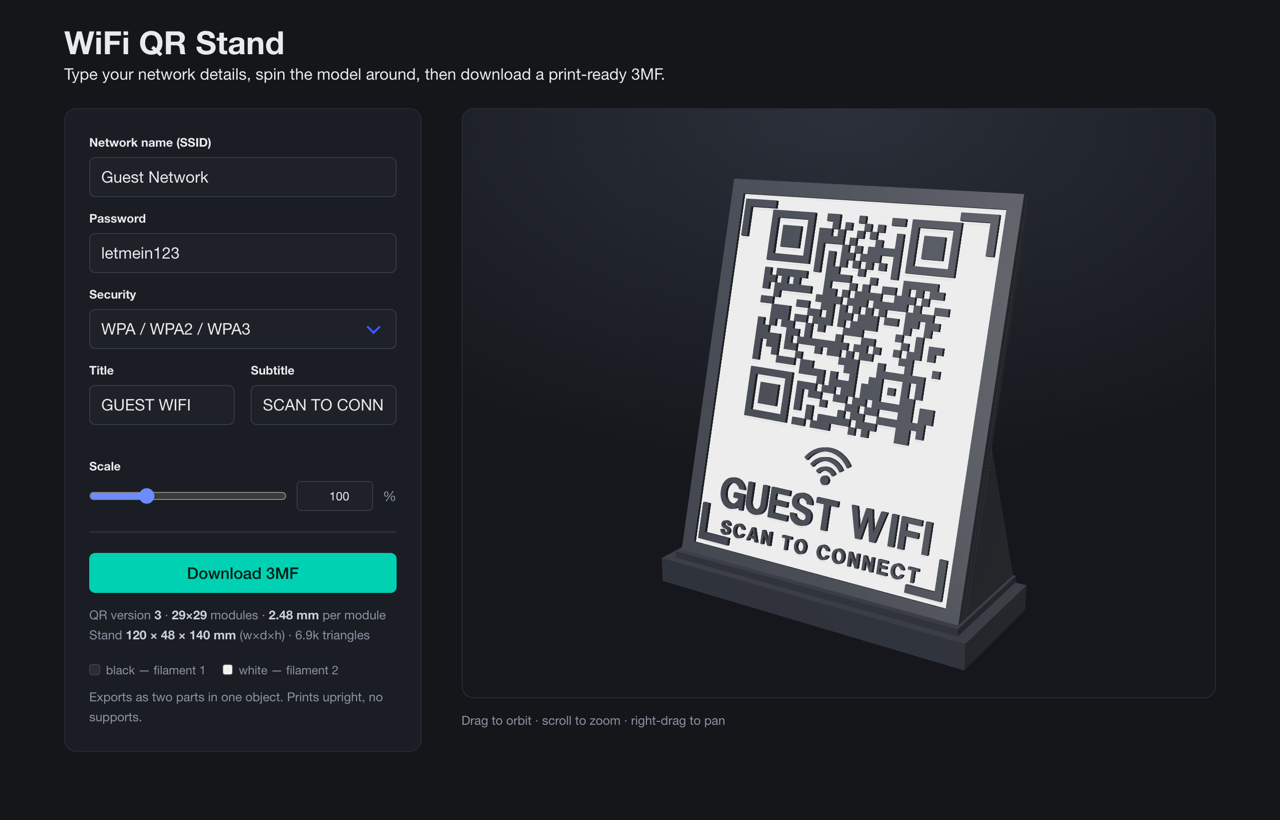
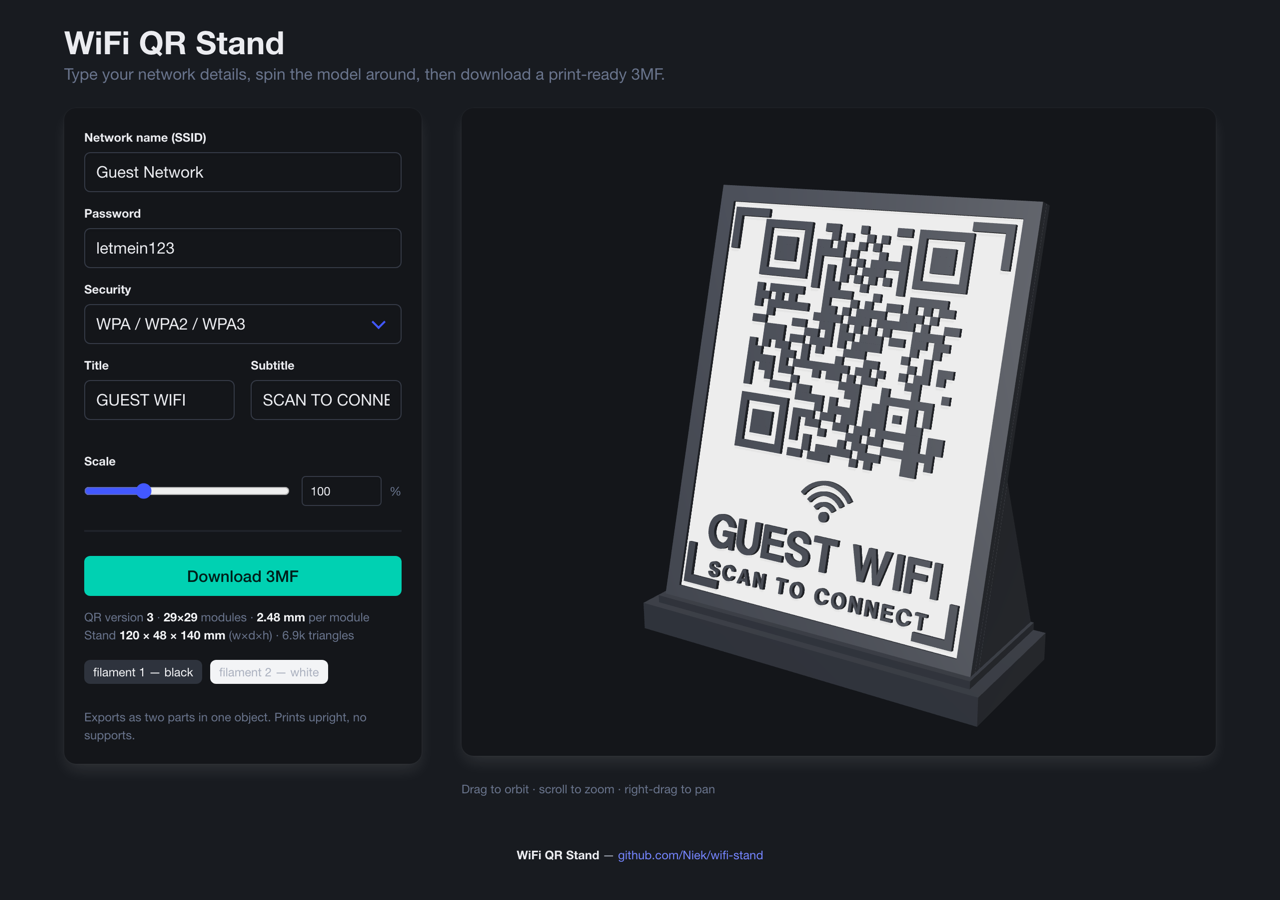
Add footer, lean on Bulma instead of custom CSS
Switch the page to Bulma's own dark theme with data-theme="dark", which
replaces every hand-rolled colour override: body text, headings, labels,
inputs, focus rings and placeholders all come from the framework now.

The remaining bespoke pieces map onto stock components and helpers --
.box for the two panels, .is-overlay/.is-flex for the loading overlay,
.tags with .is-dark/.is-light for the filament legend (the light and
dark palette colours are not flipped by the dark theme, so they read as
black and white), .is-size-7/.has-text-grey for captions, and
.is-flex-grow-1/.mr-* for the scale row.

That leaves seven declarations: the page background, the viewer's height
and grab cursor, the canvas display mode, and the range/number input
sizing -- none of which Bulma has a class for.

Also adds a standard Bulma footer linking the repo, and refreshes the
README screenshot to match.

diff --git a/index.html b/index.html
@@ -1,41 +1,19 @@
 <!doctype html>
-<html lang="en">
+<html lang="en" data-theme="dark">
 <head>
 <meta charset="utf-8">
 <meta name="viewport" content="width=device-width, initial-scale=1">
 <title>WiFi QR Stand</title>
 <link rel="stylesheet" href="https://cdn.jsdelivr.net/npm/bulma@1.0.4/css/bulma.min.css">
 <style>
-  html { background: #14161a; }
-  body { color: #e8eaed; }
-  .title, .label, .subtitle { color: #e8eaed !important; }
-  .input, .select select, .textarea {
-    background: #1e2128; border-color: #343a45; color: #e8eaed;
-  }
-  .input:focus, .select select:focus { border-color: #6c8cff; box-shadow: 0 0 0 .125em rgba(108,140,255,.25); }
-  .input::placeholder { color: #6b7280; }
-  .panel-card { background: #1a1d23; border: 1px solid #272b33; border-radius: 12px; }
-  #stage {
-    position: relative; width: 100%; height: 72vh; min-height: 420px;
-    border-radius: 12px; overflow: hidden; border: 1px solid #272b33;
-    background: radial-gradient(120% 90% at 50% 0%, #2b303a 0%, #15171c 70%);
-    cursor: grab;
-  }
+  /* Bulma's dark theme supplies the whole palette; these are the only
+     things it has no class for. */
+  html { background-color: var(--bulma-scheme-main-bis); }
+  #stage { height: 72vh; min-height: 420px; cursor: grab; }
   #stage:active { cursor: grabbing; }
   #stage canvas { display: block; }
-  #overlay {
-    position: absolute; inset: 0; display: flex; align-items: center; justify-content: center;
-    font-size: .9rem; color: #9aa3b2; background: rgba(20,22,26,.6); pointer-events: none;
-  }
-  #overlay.is-hidden-fade { opacity: 0; transition: opacity .4s; }
-  .meta { font-size: .78rem; color: #8b93a3; line-height: 1.6; }
-  .meta b { color: #c9d1de; font-weight: 600; }
-  .scale-row { display: flex; align-items: center; gap: .6rem; }
-  .scale-row input[type=range] { flex: 1; accent-color: #6c8cff; background: transparent; }
-  .scale-row input[type=number] { width: 4.8rem; text-align: right; }
-  .scale-row .pct { color: #8b93a3; font-size: .85rem; }
-  .legend { display: flex; gap: 1rem; font-size: .75rem; color: #8b93a3; }
-  .swatch { display: inline-block; width: .7rem; height: .7rem; border-radius: 3px; margin-right: .35rem; vertical-align: -1px; border: 1px solid #3a3f4a; }
+  #scale { accent-color: var(--bulma-link); }
+  #scaleNum { width: 5rem; }
 </style>
 </head>
 <body>
@@ -50,7 +28,7 @@
     <div class="columns is-variable is-5">
       <!-- ---------------- controls ---------------- -->
       <div class="column is-4">
-        <div class="panel-card p-5">
+        <div class="box">
           <div class="field">
             <label class="label is-small">Network name (SSID)</label>
             <div class="control">
@@ -99,41 +77,50 @@
 
           <div class="field">
             <label class="label is-small">Scale</label>
-            <div class="control scale-row">
-              <input id="scale" type="range" min="25" max="300" step="1" value="100">
-              <input id="scaleNum" class="input is-small" type="number" min="10" max="500" step="1" value="100">
-              <span class="pct">%</span>
+            <div class="control is-flex is-align-items-center">
+              <input id="scale" class="is-flex-grow-1 mr-3" type="range" min="25" max="300" step="1" value="100">
+              <input id="scaleNum" class="input is-small mr-2" type="number" min="10" max="500" step="1" value="100">
+              <span class="is-size-7 has-text-grey">%</span>
             </div>
           </div>
 
-          <hr style="background:#272b33;margin:1.25rem 0">
+          <hr>
 
           <button id="download" class="button is-primary is-fullwidth mb-3">
             <span>Download 3MF</span>
           </button>
 
-          <p id="meta" class="meta"></p>
+          <p id="meta" class="is-size-7 has-text-grey"></p>
 
-          <div class="legend mt-4">
-            <span><i class="swatch" style="background:#2a2d33"></i>black &mdash; filament 1</span>
-            <span><i class="swatch" style="background:#f2f2ee"></i>white &mdash; filament 2</span>
+          <div class="tags mt-4">
+            <span class="tag is-dark">filament 1 &mdash; black</span>
+            <span class="tag is-light">filament 2 &mdash; white</span>
           </div>
-          <p class="meta mt-2">Exports as two parts in one object. Prints upright, no supports.</p>
+          <p class="is-size-7 has-text-grey">Exports as two parts in one object. Prints upright, no supports.</p>
         </div>
       </div>
 
       <!-- ---------------- viewer ---------------- -->
       <div class="column is-8">
-        <div id="stage">
-          <div id="overlay">loading…</div>
+        <div id="stage" class="box p-0 is-clipped is-relative">
+          <div id="overlay" class="is-overlay is-flex is-align-items-center is-justify-content-center has-text-grey is-size-7">loading…</div>
         </div>
-        <p class="meta mt-3">
+        <p class="is-size-7 has-text-grey mt-3">
           Drag to orbit · scroll to zoom · right-drag to pan
         </p>
       </div>
     </div>
   </div>
 </section>
+
+<footer class="footer py-5">
+  <div class="content has-text-centered is-size-7">
+    <p>
+      <strong>WiFi QR Stand</strong> &mdash;
+      <a href="https://github.com/Niek/wifi-stand" target="_blank" rel="noopener">github.com/Niek/wifi-stand</a>
+    </p>
+  </div>
+</footer>
 
 <script type="importmap">
 {
@@ -963,10 +950,11 @@ function updateMeta() {
     (m.geometry.index ? m.geometry.index.count : m.geometry.attributes.position.count) / 3, 0);
   const warn = mod < 0.8
     ? ' <span class="has-text-warning">&mdash; too fine to print cleanly</span>' : '';
+  const hi = t => `<b class="has-text-light">${t}</b>`;
   metaEl.innerHTML =
-    `QR version <b>${model.qr.version}</b> &middot; <b>${model.qr.size}&times;${model.qr.size}</b> modules &middot; ` +
-    `<b>${mod.toFixed(2)} mm</b> per module${warn}<br>` +
-    `Stand <b>${size.x.toFixed(0)} &times; ${size.z.toFixed(0)} &times; ${size.y.toFixed(0)} mm</b> (w&times;d&times;h) &middot; ` +
+    `QR version ${hi(model.qr.version)} &middot; ${hi(`${model.qr.size}&times;${model.qr.size}`)} modules &middot; ` +
+    `${hi(`${mod.toFixed(2)} mm`)} per module${warn}<br>` +
+    `Stand ${hi(`${size.x.toFixed(0)} &times; ${size.z.toFixed(0)} &times; ${size.y.toFixed(0)} mm`)} (w&times;d&times;h) &middot; ` +
     `${(tris / 1000).toFixed(1)}k triangles`;
 }
 
@@ -1033,8 +1021,7 @@ dlBtn.addEventListener('click', async () => {
 });
 
 rebuild();
-overlay.classList.add('is-hidden-fade');
-setTimeout(() => overlay.remove(), 500);
+overlay.remove();
 
 // expose for automated checks
 window.__stand = { THREE, scene, camera, controls, renderer, frameCamera, rebuild, export3MF, get model() { return model; } };
